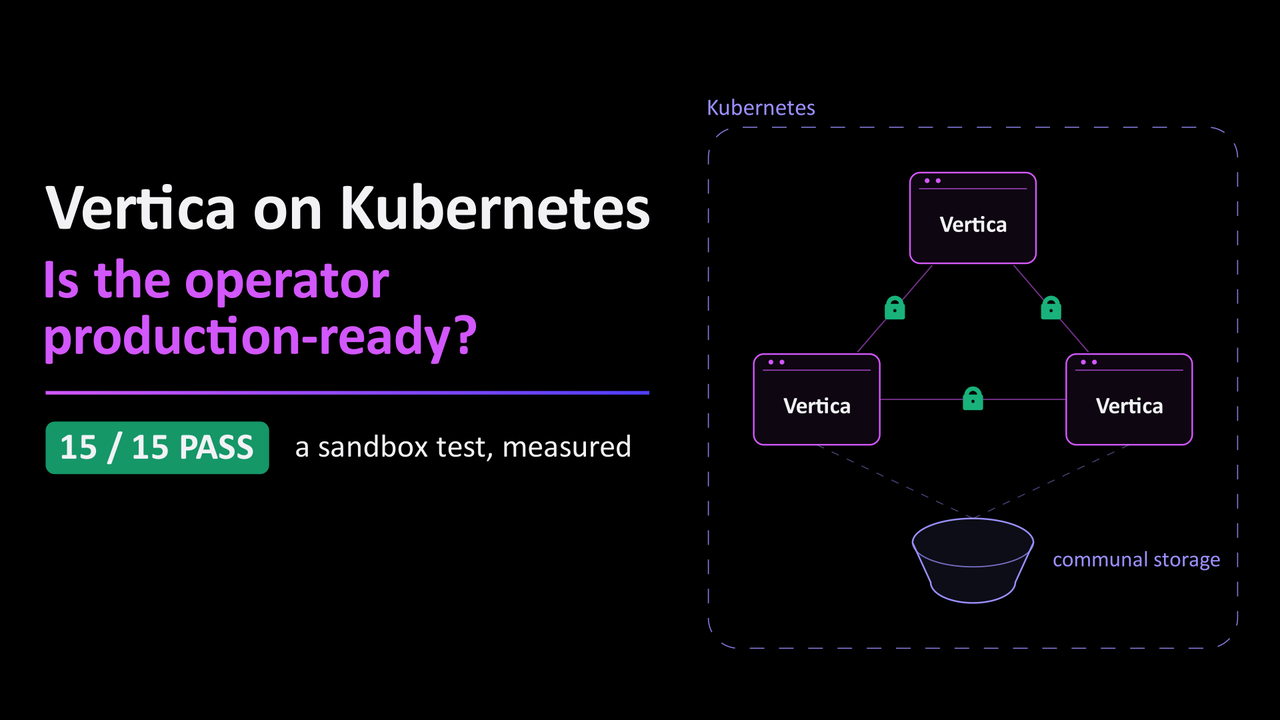
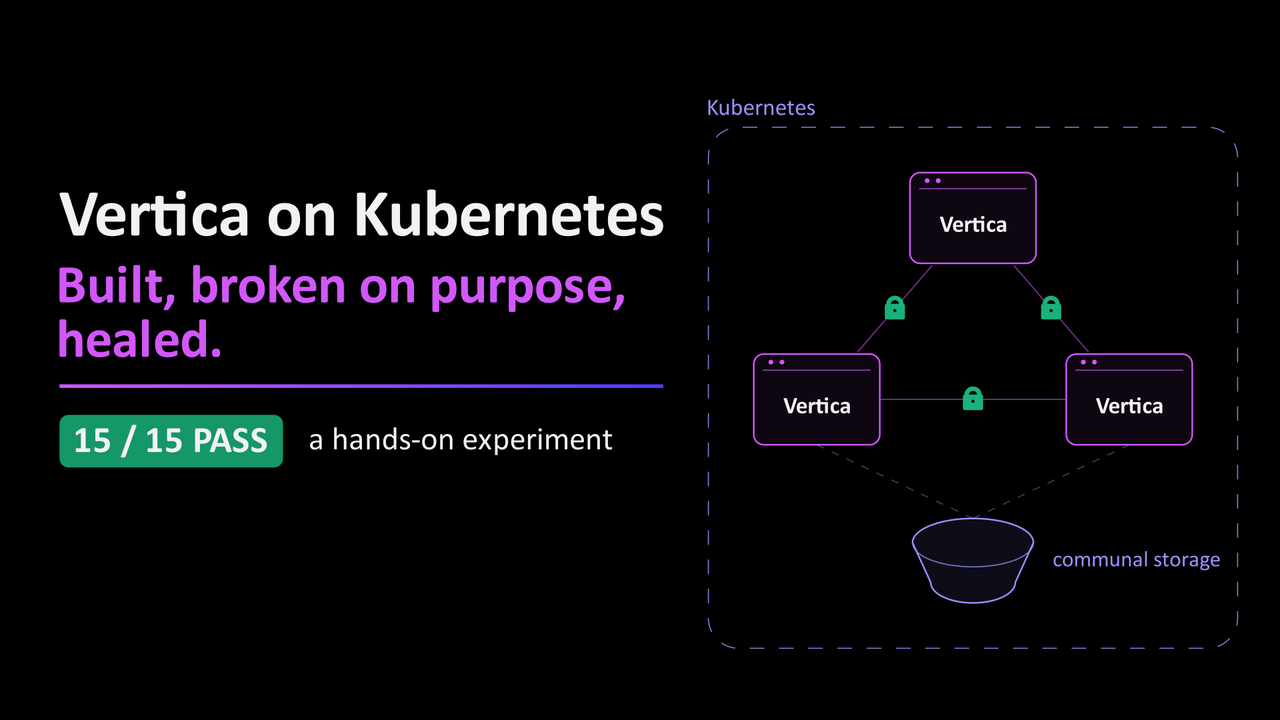
Video: new story (Vertica's strength, a different side, what I learned) and the video link

Changed region(s): [[0.0312, 0.3667, 0.5312, 0.6722], [0.0312, 0.2444, 0.5312, 0.3361]]

diff --git a/README.md b/README.md
@@ -17,7 +17,7 @@ sudo ./vertica-k8s-lab.sh --test        # 15 tests, about 10 minutes
 
 ### The video (5 minutes)
 
-[![Vertica on Kubernetes: is the operator production-ready? Watch the 5-minute video](media/thumbnail.png)](https://youtu.be/PASTE_VIDEO_ID)
+[![Vertica on Kubernetes: putting the operator through its paces. Watch the 5-minute video](media/thumbnail.png)](https://youtu.be/YOUR_VIDEO_ID)
 
 What the script builds, the install, the 15 tests, the failures on purpose and the
 result, with footage of a real run. English narration; English and Hebrew subtitles.
@@ -42,11 +42,12 @@ result, with footage of a real run. English narration; English and Hebrew subtit
 
 ## 1. Why this lab exists
 
-Recently, a customer asked a simple question: *is the Vertica Kubernetes operator mature
-enough for production?*
+Most of my work with Vertica is about what it does best: powerful analytics at scale.
+This time I wanted to explore a different side of Vertica: running on Kubernetes, where
+the Vertica operator automates deployment, recovery, security and scaling.
 
-Many customers already run Vertica on Kubernetes. Still, I wanted to answer from my own
-hands, not from a slide. So I tested it in my sandbox, with three rules:
+So I built a test lab on one Ubuntu workstation, with one goal: put the operator through
+its paces, including breaking things on purpose. Three rules:
 
 1. **Automate everything in one script:** install, demo, test and clean up.
 2. **Use only official building blocks:** the operator's Helm chart from
